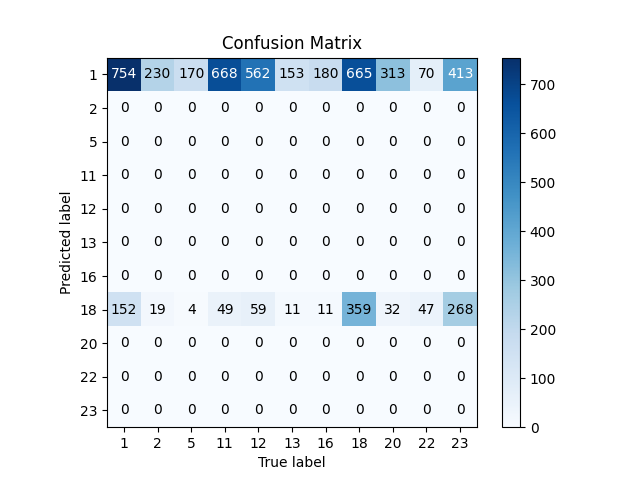
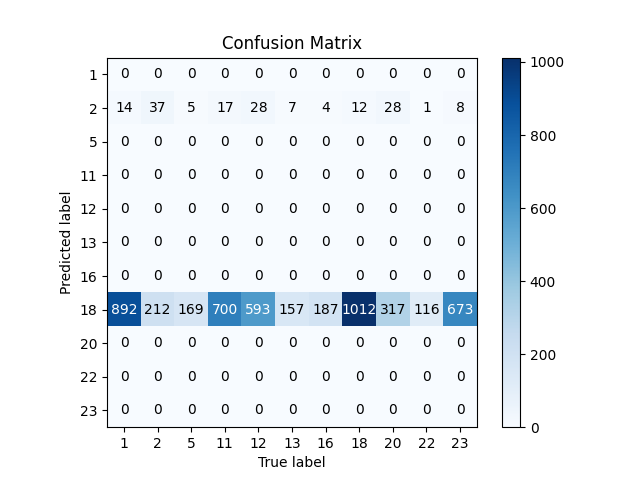
Main arreglado una cosa

diff --git a/PruebasPreproceso.py b/PruebasPreproceso.py
@@ -8,11 +8,15 @@ import preproceso
 f="datasets/train.csv"
 df = pd.read_csv(f)
 df, diccionario = preproceso.topicosTrain(df, 12)
-
-dbscan = DBSCAN.DBScan()
-clusters = dbscan.fit(0.125, 13, df)
-clusters = sorted(clusters, key=lambda x: x[0])
-print(clusters)
-referencias = evaluacion.etiqueta_significativa(clusters, df["Chapter"])
-idx , cluster = list(zip(*clusters))
-evaluacion.evaluar(referencias, clusters, df["Chapter"])
+nmprArray = [13,18,24,29,34,39,44,50]
+epsilon = np.arange(0.08, 0.20, 0.01)
+for i in nmprArray:
+    for j in epsilon:
+        print("nmpr: ",str(i),"epsilon: ", str(j))
+        dbscan = DBSCAN.DBScan()
+        clusters = dbscan.fit(j, i, df)
+        clusters = sorted(clusters, key=lambda x: x[0])
+        print(clusters)
+        referencias = evaluacion.etiqueta_significativa(clusters, df["Chapter"])
+        idx , cluster = list(zip(*clusters))
+        evaluacion.evaluar(referencias, clusters, df["Chapter"])

diff --git a/evaluacion.py b/evaluacion.py
@@ -53,8 +53,8 @@ def evaluar(referencias, clusters ,y_train):
     errorTotal = error["errores"]/(error["errores"]+error["aciertos"])
     print("El error es de: " + str(errorTotal))
 
-    skplt.plot_confusion_matrix(labels, y_train)
+    """skplt.plot_confusion_matrix(labels, y_train)
     plt.xlabel("True label")
     plt.ylabel("Predicted label")
     plt.savefig('Imagenes/matrizDeConfusion.png')
-    plt.show()
+    plt.show()"""

diff --git a/main.py b/main.py
@@ -93,7 +93,7 @@ def main():
         print("Ha elegido clasificar instancias nuevas del modelo")
         clasificarInstancias()
 
-    elif int(eleccion)2 == 4:
+    elif int(eleccion) == 4:
         print("SALIENDO...")
         return
 
